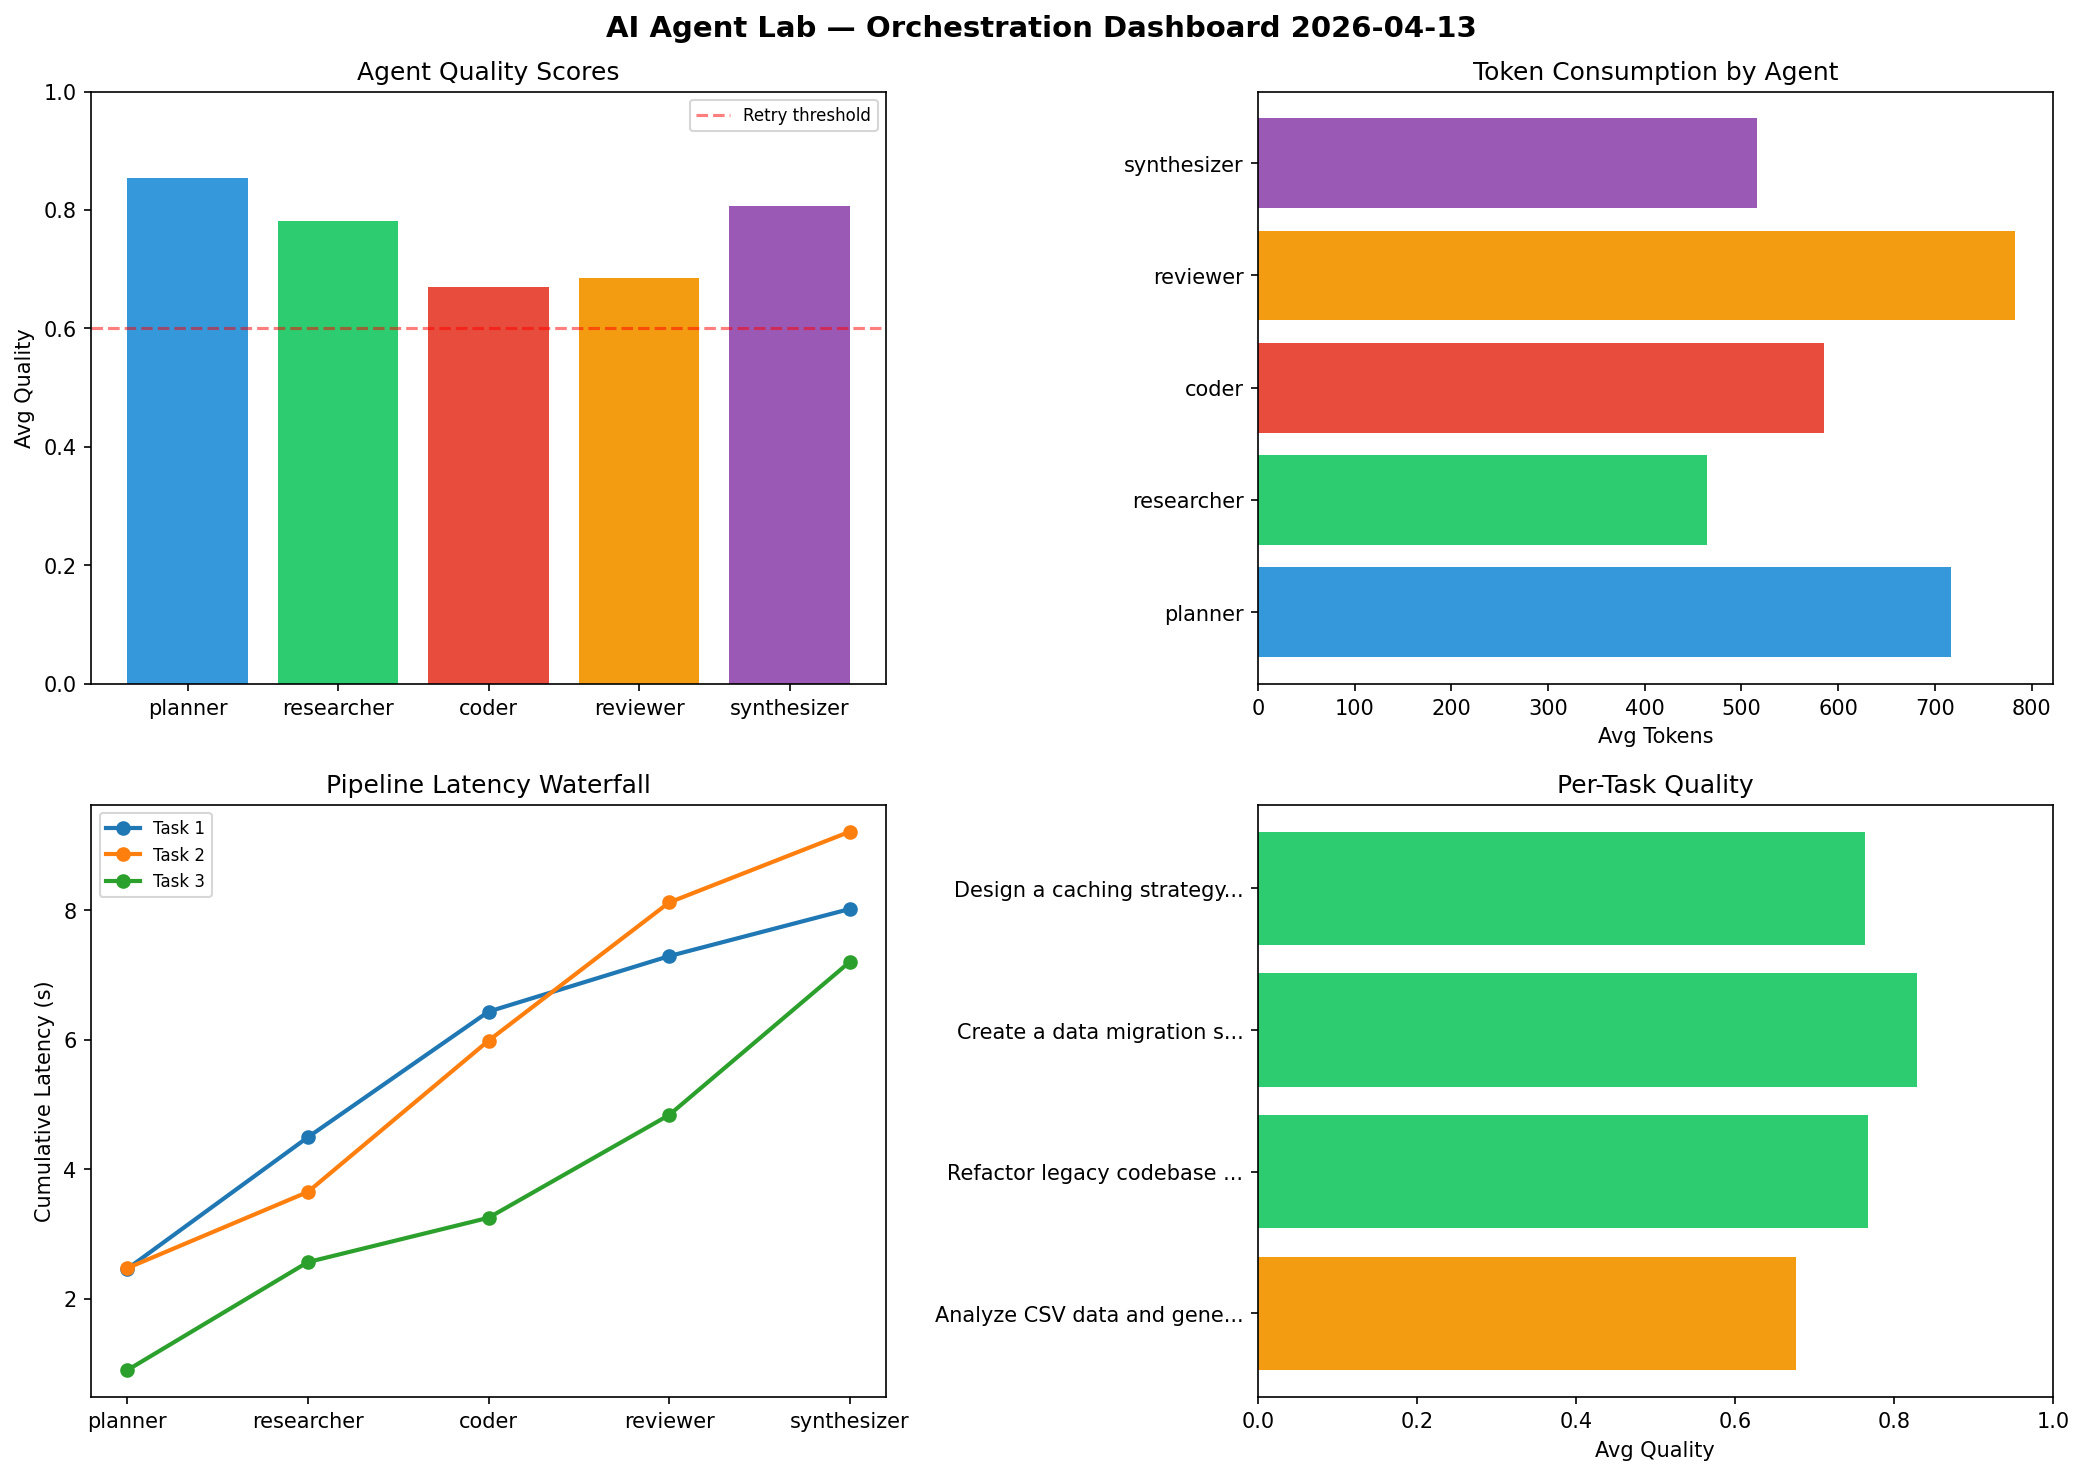
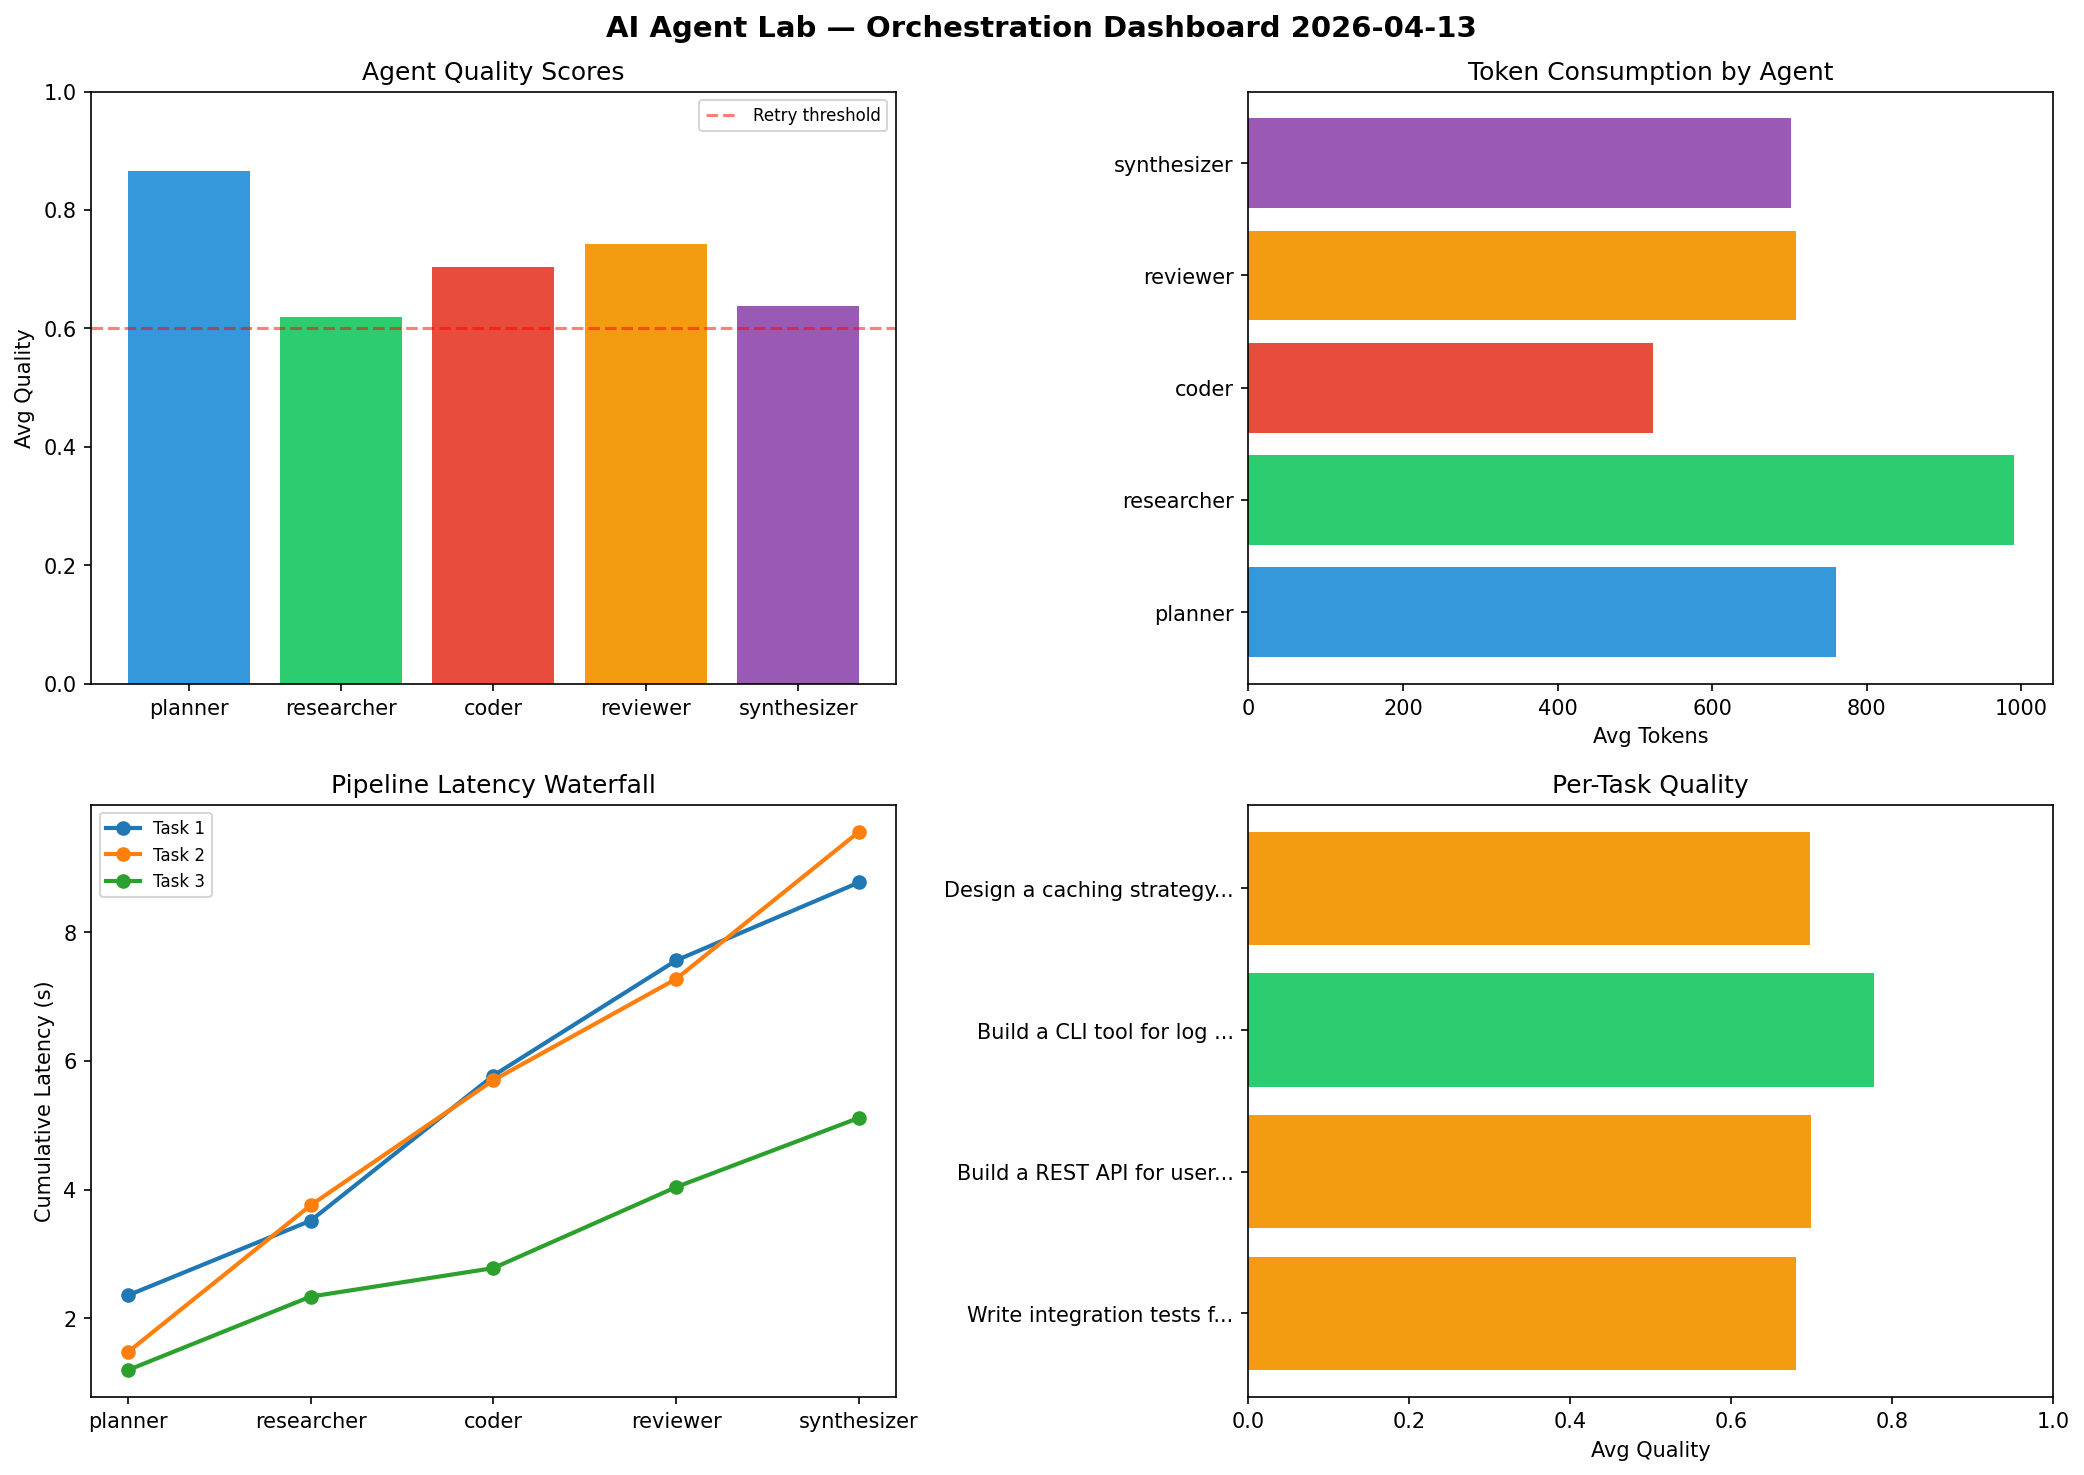
ai-agent-lab: orchestration run 2026-04-13T21:11

diff --git a/logs/2026-04-13.md b/logs/2026-04-13.md
@@ -1,6 +1,6 @@
 # AI Agent Lab — Orchestration Report 2026-04-13
 
-**Run ID:** `9f9f43306d` | **Tasks:** 4 | **Avg Quality:** 0.76
+**Run ID:** `1f13a38c61` | **Tasks:** 4 | **Avg Quality:** 0.714
 
 ![Dashboard](2026-04-13_dashboard.png)
 
@@ -8,52 +8,52 @@
 
 | Metric | Value |
 |--------|-------|
-| avg_latency | 7.552 |
-| total_tokens | 12261 |
-| avg_quality | 0.76 |
+| avg_latency | 7.644 |
+| total_tokens | 14745 |
+| avg_quality | 0.714 |
 
 ## Delta vs Yesterday
 
 | Metric | Today | Yesterday | Change |
 |--------|-------|-----------|--------|
-| avg_latency | 7.552 | 6.008 | 📈 25.7% |
-| total_tokens | 12261 | 13546 | 📉 -9.5% |
-| avg_quality | 0.76 | 0.79 | 📉 -3.8% |
+| avg_latency | 7.644 | 6.008 | 📈 27.2% |
+| total_tokens | 14745 | 13546 | 📈 8.9% |
+| avg_quality | 0.714 | 0.79 | 📉 -9.6% |
 
 ## Pipeline Results
 
-### Analyze CSV data and generate statistical summary
+### Write integration tests for payment processing module
 | Agent | Quality | Latency | Tokens | Status |
 |-------|---------|---------|--------|--------|
-| planner | 0.651 | 2.46s | 1142 | success |
-| researcher | 0.979 | 2.034s | 556 | success |
-| coder | 0.53 | 1.941s | 832 | needs_retry |
-| reviewer | 0.642 | 0.858s | 691 | success |
-| synthesizer | 0.585 | 0.728s | 862 | needs_retry |
+| planner | 0.679 | 2.356s | 669 | success |
+| researcher | 0.681 | 1.161s | 886 | success |
+| coder | 0.581 | 2.256s | 682 | needs_retry |
+| reviewer | 0.886 | 1.789s | 713 | success |
+| synthesizer | 0.579 | 1.212s | 725 | needs_retry |
 
-### Refactor legacy codebase to use dependency injection
+### Build a REST API for user authentication
 | Agent | Quality | Latency | Tokens | Status |
 |-------|---------|---------|--------|--------|
-| planner | 0.925 | 2.471s | 601 | success |
-| researcher | 0.672 | 1.178s | 447 | success |
-| coder | 0.555 | 2.337s | 341 | needs_retry |
-| reviewer | 0.705 | 2.136s | 865 | success |
-| synthesizer | 0.985 | 1.094s | 259 | success |
+| planner | 0.909 | 1.473s | 835 | success |
+| researcher | 0.561 | 2.283s | 956 | needs_retry |
+| coder | 0.656 | 1.945s | 579 | success |
+| reviewer | 0.803 | 1.574s | 556 | success |
+| synthesizer | 0.566 | 2.287s | 551 | needs_retry |
 
-### Create a data migration script for schema v2
+### Build a CLI tool for log analysis
 | Agent | Quality | Latency | Tokens | Status |
 |-------|---------|---------|--------|--------|
-| planner | 0.864 | 0.894s | 472 | success |
-| researcher | 0.945 | 1.67s | 441 | success |
-| coder | 0.675 | 0.685s | 601 | success |
-| reviewer | 0.877 | 1.589s | 1008 | success |
-| synthesizer | 0.783 | 2.366s | 380 | success |
+| planner | 0.99 | 1.195s | 820 | success |
+| researcher | 0.713 | 1.143s | 1082 | success |
+| coder | 0.929 | 0.443s | 215 | success |
+| reviewer | 0.617 | 1.259s | 668 | success |
+| synthesizer | 0.639 | 1.076s | 594 | success |
 
 ### Design a caching strategy for high-traffic endpoints
 | Agent | Quality | Latency | Tokens | Status |
 |-------|---------|---------|--------|--------|
-| planner | 0.978 | 2.047s | 652 | success |
-| researcher | 0.532 | 1.218s | 414 | needs_retry |
-| coder | 0.922 | 0.54s | 567 | success |
-| reviewer | 0.518 | 0.882s | 567 | needs_retry |
-| synthesizer | 0.871 | 1.08s | 563 | success |
+| planner | 0.887 | 2.004s | 719 | success |
+| researcher | 0.519 | 0.278s | 1040 | needs_retry |
+| coder | 0.652 | 1.591s | 618 | success |
+| reviewer | 0.666 | 1.054s | 898 | success |
+| synthesizer | 0.768 | 2.198s | 939 | success |
